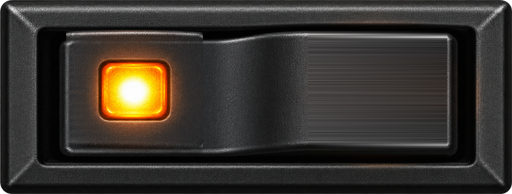
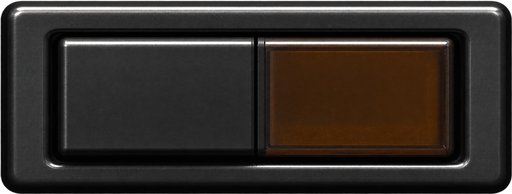
Skin packs: switches in two states and the wheels' colour; SIGNAL BASIN's switches (R-SKIN-PACKS)
A pack may give a rocker's picture on (rocker-blue-on, -orange-on, -ivory-on): the rocker then
shows its plain picture off and that one on, unmirrored, without the plug-in's paddle light, so a
switch can be a key with a lamp. [look.colours] wheel colours the PITCH and MOD wheels. SIGNAL
BASIN's switches are now the concept's illuminated switch (a plain half and an amber lens half,
dark off and lit on) throughout, and its wheels the concept's aged cream; passed by the
reviewing agent.

diff --git a/crates/ca72-panel/src/render.rs b/crates/ca72-panel/src/render.rs
@@ -602,6 +602,24 @@ impl Renderer {
                     _ => 0.0,
                 };
                 let mut layer = control(c, v, midi);
+                // A pack's rocker drawn in its two states: its picture on or off, neither
+                // mirrored, no paddle lit or shadowed by the plug-in.
+                if worn
+                    && let Some(sp) = layer.sprites.first_mut()
+                    && let Some(slot) = crate::skin::on_slot(sp.part)
+                    && self.look.pictures.contains_key(slot)
+                {
+                    if v >= 0.5 {
+                        sp.part = match sp.part {
+                            Part::RockerBlue => Part::RockerBlueOn,
+                            Part::RockerOrange => Part::RockerOrangeOn,
+                            _ => Part::RockerIvoryOn,
+                        };
+                    }
+                    sp.flip = (false, false);
+                    layer.paddle = None;
+                    layer.body = String::new();
+                }
                 // FEEDBACK while EXTERNAL INPUT is closed: dimmed as the parts with no
                 // parameter are, still operable; DETUNE in SCATTER and VOICES where it does
                 // nothing: dimmed so, and not operable (the editor's `operable`).
@@ -814,7 +832,13 @@ impl Renderer {
             d.draw(&mut pixmap, origin, s as f32);
         }
         if let Some(wheel) = layer.wheel {
-            draw_wheel(&mut pixmap, (ox * s - x0, oy * s - y0), s, wheel);
+            // (A look's colour as written, sRGB: the wheel is shaded in linear light.)
+            let albedo = self
+                .look
+                .colours
+                .wheel
+                .map(|(r, g, b)| [r, g, b].map(|v| (f64::from(v) / 255.0).powf(2.2)));
+            draw_wheel(&mut pixmap, (ox * s - x0, oy * s - y0), s, wheel, albedo);
         }
         if let Some(paddle) = layer.paddle {
             light_paddle(&mut pixmap, (ox * s - x0, oy * s - y0), s, paddle);
@@ -1200,7 +1224,13 @@ fn light_paddle(frame: &mut Pixmap, at: (f64, f64), s: f64, p: art::PaddleArt) {
 /// (above, and up and to the left of, the panel): its ridges every 8 degrees rolling with it,
 /// each lit on its flank towards the lamp; its rim rounded over at its sides; its ends going
 /// down into the slot's shade; PITCH's line or MOD.'s dot rolling with it.
-fn draw_wheel(frame: &mut Pixmap, at: (f64, f64), s: f64, wheel: art::WheelArt) {
+fn draw_wheel(
+    frame: &mut Pixmap,
+    at: (f64, f64),
+    s: f64,
+    wheel: art::WheelArt,
+    albedo: Option<[f64; 3]>,
+) {
     let k = art::WHEEL_SCALE;
     let (hw, hh, r, corner) = (24.0 * k, 67.0 * k, 84.0 * k, 10.0 * k);
     let unit = |(x, y, z): (f64, f64, f64)| {
@@ -1208,7 +1238,8 @@ fn draw_wheel(frame: &mut Pixmap, at: (f64, f64), s: f64, wheel: art::WheelArt) 
         (x / n, y / n, z / n)
     };
     let (light, half) = lamp_vectors();
-    let albedo = [0.80, 0.765, 0.67];
+    // Its colour: a look's, else the built-in cream.
+    let albedo = albedo.unwrap_or([0.80, 0.765, 0.67]);
     let (fw, fh) = (frame.width() as i32, frame.height() as i32);
     let x0 = ((at.0 - hw * s).floor() as i32).max(0);
     let x1 = ((at.0 + hw * s).ceil() as i32).min(fw);

diff --git a/crates/ca72-panel/tests/packs.rs b/crates/ca72-panel/tests/packs.rs
@@ -720,3 +720,64 @@ fn a_packs_strip_is_its_own() {
             .has("look.colour")
     );
 }
+
+/// A pack's rockers in two states: its picture on drawn when on and its plain one when off,
+/// neither mirrored and no paddle lit by the plug-in; without its picture on, mirrored as
+/// before. And a pack's wheel colour shades the PITCH and MOD wheels.
+#[test]
+fn a_packs_switches_show_their_state_and_its_wheels_their_colour() {
+    let with = |on: bool, wheel: bool| {
+        edited(move |d| {
+            let off = "<svg xmlns='http://www.w3.org/2000/svg' viewBox='0 0 20 8'><rect width='20' height='8' fill='#111'/><rect x='15' y='2' width='4' height='4' fill='#420'/></svg>";
+            let lit = "<svg xmlns='http://www.w3.org/2000/svg' viewBox='0 0 20 8'><rect width='20' height='8' fill='#111'/><rect x='15' y='2' width='4' height='4' fill='#fa4'/></svg>";
+            std::fs::write(d.join("art/off.svg"), off).expect("written");
+            std::fs::write(d.join("art/on.svg"), lit).expect("written");
+            replace(
+                &d.join("skin.toml"),
+                "base = \"classic\"",
+                "base = \"realistic\"",
+            );
+            let text = std::fs::read_to_string(d.join("skin.toml")).expect("read");
+            let assets = ["art/off.svg", "art/on.svg"]
+                .map(|p| format!("[[assets]]\npath = \"{p}\"\norigin = \"original\"\n\n"))
+                .concat();
+            let colours = if wheel {
+                "\n[look.colours]\nwheel = \"#806040\"\n"
+            } else {
+                ""
+            };
+            let pictures = if on {
+                "\n[look.pictures]\nrocker-blue = \"art/off.svg\"\nrocker-blue-on = \"art/on.svg\"\n"
+            } else {
+                "\n[look.pictures]\nrocker-blue = \"art/off.svg\"\n"
+            };
+            std::fs::write(
+                d.join("skin.toml"),
+                text.replace("[look]", &format!("{assets}[look]")) + colours + pictures,
+            )
+            .expect("written");
+        })
+    };
+    let s = 0.3;
+    let draw = |look: Look, value: f64| {
+        let mut r = Renderer::with_pack(look, Lettering::Standard, s, 1.0);
+        let mut scene = Scene::default();
+        let i = ca72_panel::controls::index("osc1_on").expect("OSC 1 ON");
+        scene.values[i] = value;
+        r.render(&scene);
+        r.frame().data().to_vec()
+    };
+    let open = |on, wheel| {
+        let dir = with(on, wheel);
+        Look::open(dir.path()).unwrap_or_else(|r| panic!("{r}"))
+    };
+    let (two, one) = (open(true, false), open(false, false));
+    // On, the two-state pack differs from the mirrored one; off, they are the same picture
+    // unmirrored against mirrored, so they differ too, but the two-state pack's off and on
+    // differ only by the lamp.
+    assert!(draw(two.clone(), 1.0) != draw(one.clone(), 1.0));
+    assert!(draw(two.clone(), 0.0) != draw(two.clone(), 1.0));
+    let wheel = open(false, true);
+    assert_eq!(wheel.colours.wheel, Some((0x80, 0x60, 0x40)));
+    assert!(draw(wheel, 0.0) != draw(one, 0.0));
+}

diff --git a/crates/ca72-panel/src/skin.rs b/crates/ca72-panel/src/skin.rs
@@ -88,14 +88,28 @@ pub const SLOTS: [(&str, &[u8]); 27] = [
 /// strip's renderer: a tab's cap (the built-in one is made translucent amber and lit from it)
 /// and, if the pack gives one, the tab lit (otherwise lit from the cap as the built-in one is);
 /// the rail's keys' cap; the readouts' and displays' glass; and the ivory rocker (the left
-/// hand's switches, the layout's ivory ones), else made from the blue.
-pub const STRIP_SLOTS: [(&str, &[u8]); 5] = [
+/// hand's switches, the layout's ivory ones), else made from the blue; and each rocker on, if a
+/// pack draws its rockers' two states (a lamp lit) rather than one picture mirrored.
+pub const STRIP_SLOTS: [(&str, &[u8]); 8] = [
     ("tab", BUTTON),
     ("tab-lit", BUTTON),
     ("key", BUTTON),
     ("glass", GLASS),
     ("rocker-ivory", ROCKER_BLUE),
+    ("rocker-blue-on", ROCKER_BLUE),
+    ("rocker-orange-on", ROCKER_ORANGE),
+    ("rocker-ivory-on", ROCKER_BLUE),
 ];
+
+/// The slot of a rocker's picture on, by the part of its picture off.
+pub fn on_slot(part: Part) -> Option<&'static str> {
+    match part {
+        Part::RockerBlue => Some("rocker-blue-on"),
+        Part::RockerOrange => Some("rocker-orange-on"),
+        Part::RockerIvory => Some("rocker-ivory-on"),
+        _ => None,
+    }
+}
 
 /// Every picture built into the plug-in, by name: the worn skin's, the strip's and the
 /// keyboard's. A pack under another licence holding a copy of one is put to review
@@ -178,6 +192,11 @@ pub enum Part {
     RockerBlue,
     RockerOrange,
     RockerIvory,
+    /// A rocker on, as a skin pack draws it (its plain picture then shown off, neither
+    /// mirrored): a switch with a lamp lit, say.
+    RockerBlueOn,
+    RockerOrangeOn,
+    RockerIvoryOn,
     /// The POWER rocker, its upper half raised.
     Power,
     /// The POWER lamp's red jewel in its chrome bezel, and OVERLOAD's darker one.
@@ -242,6 +261,8 @@ pub struct Pictures {
     rocker_blue: Pixmap,
     rocker_orange: Pixmap,
     rocker_ivory: Pixmap,
+    /// A pack's rockers on (blue, orange, ivory), if it draws them.
+    rockers_on: [Option<Pixmap>; 3],
     power: Pixmap,
     jewel: Pixmap,
     jewel_dark: Pixmap,
@@ -365,6 +386,7 @@ impl Pictures {
             rocker_blue,
             rocker_orange: png("rocker-orange"),
             rocker_ivory,
+            rockers_on: ["rocker-blue-on", "rocker-orange-on", "rocker-ivory-on"].map(pack),
             power: png("power"),
             jewel,
             jewel_dark,
@@ -401,6 +423,9 @@ impl Pictures {
             Part::RockerBlue => &self.rocker_blue,
             Part::RockerOrange => &self.rocker_orange,
             Part::RockerIvory => &self.rocker_ivory,
+            Part::RockerBlueOn => self.rockers_on[0].as_ref().unwrap_or(&self.rocker_blue),
+            Part::RockerOrangeOn => self.rockers_on[1].as_ref().unwrap_or(&self.rocker_orange),
+            Part::RockerIvoryOn => self.rockers_on[2].as_ref().unwrap_or(&self.rocker_ivory),
             Part::Power => &self.power,
             Part::Jewel => &self.jewel,
             Part::JewelDark => &self.jewel_dark,

diff --git a/docs/skin-packs/tools/signal-basin/switches.py b/docs/skin-packs/tools/signal-basin/switches.py
@@ -1,0 +1,19 @@
+#!/usr/bin/env python3
+"""Signal Basin: the switch's two pictures (off, its lamp dark; on, lit) cut out by their own
+transparency, cropped on one frame (the union of their outlines, so the two line up) and sized
+for the rocker slots. python3 switches.py <generated folder> <pictures folder>"""
+import sys
+import numpy as np
+from PIL import Image, ImageFilter
+
+src, out = sys.argv[1].rstrip("/") + "/", sys.argv[2].rstrip("/") + "/"
+ims = [Image.open(src + n + ".png").convert("RGBA") for n in ("switch", "switch-on")]
+boxes = [Image.fromarray((np.array(i)[..., 3] > 128).astype(np.uint8) * 255).getbbox() for i in ims]
+box = (min(b[0] for b in boxes), min(b[1] for b in boxes), max(b[2] for b in boxes), max(b[3] for b in boxes))
+for im, names in zip(ims, (("rocker-blue", "rocker-ivory"), ("rocker-blue-on", "rocker-ivory-on"))):
+    a = Image.fromarray(np.array(im)[..., 3]).filter(ImageFilter.MinFilter(3)).filter(ImageFilter.GaussianBlur(0.6))
+    im.putalpha(a)
+    pic = im.crop(box).resize((512, 194), Image.LANCZOS)
+    for n in names:
+        pic.save(out + n + ".png", optimize=True)
+print("cut on", box)

diff --git a/crates/ca72-panel/src/look.rs b/crates/ca72-panel/src/look.rs
@@ -373,6 +373,7 @@ impl Look {
                 ("drops", &c.drops, &mut colours.drops),
                 ("tab_print", &c.tab_print, &mut colours.tab_print),
                 ("key_print", &c.key_print, &mut colours.key_print),
+                ("wheel", &c.wheel, &mut colours.wheel),
             ] {
                 if let Some(v) = value {
                     match hex(v) {
@@ -537,6 +538,8 @@ struct ColoursTable {
     tab_print: Option<String>,
     #[serde(default)]
     key_print: Option<String>,
+    #[serde(default)]
+    wheel: Option<String>,
     #[serde(flatten)]
     rest: Rest,
 }
@@ -550,6 +553,8 @@ pub struct Colours {
     pub drops: Option<(u8, u8, u8)>,
     pub tab_print: Option<(u8, u8, u8)>,
     pub key_print: Option<(u8, u8, u8)>,
+    /// The PITCH and MOD wheels' (else the built-in cream).
+    pub wheel: Option<(u8, u8, u8)>,
 }
 
 /// A colour written `#rrggbb`.

diff --git a/docs/skin-packs/signal-basin/README.md b/docs/skin-packs/signal-basin/README.md
@@ -68,6 +68,13 @@ face (`spill.py`). `rocker-ivory.png` is the black rocker again, so that the lef
 switches match the panel's; the screw picture (the left hand's mountings) darkened to the
 drawn screws' bronze. The lamps' colours are the manifest's (`[look.colours]`).
 
+**The switches.** Every on/off switch (the oscillators' ON, the left hand's, the filter's) is
+the concept's illuminated switch: a bezel round a plain Bakelite half and a translucent amber
+lens, generated off from a crop of the concept and on as an edit of it, cropped on one frame
+(`switches.py`), and given as `rocker-blue` and `rocker-blue-on` (and the ivory again), so the
+plug-in shows each state's picture rather than mirroring one. The PITCH and MOD wheels are
+shaded by the plug-in in the manifest's `wheel` colour.
+
 ## The prompts
 
 ### `knob` (with a crop of the concept picture)
@@ -240,3 +247,23 @@ drawn screws' bronze. The lamps' colours are the manifest's (`[look.colours]`).
 > The attached picture is cropped from a concept picture of a synthesizer's lower panel: a numeric readout's window of near-black quiet glass (its amber digit is drawn by the plug-in, so leave it out). Make a straight-on, evenly lit close photograph of exactly that glass, empty: near-black smoked glass with a very faint cool tint, the faintest fine mesh just visible behind it, a soft even sheen, filling a landscape frame (about 16 by 9) edge to edge, as large as you can make it.
 > - Completely empty: no digits, segments, letters, dots, frame, bezel or marks.
 > - Even across the frame: no vignetting, no gradient, no reflections of objects; sharp focus.
+
+### `switch` (with a crop of the strip's concept's switch)
+
+> Use your image generation tool to make one image, then save it in the current directory as switch.png (copy the generated file there). Do nothing else.
+>
+> The attached picture is cropped from a concept picture of a synthesizer panel: an illuminated on/off rocker switch, shown ON. Make exactly that switch as a standalone product picture, but OFF:
+> - A landscape switch about 2.2 times as wide as it is tall, seen from straight in front, exactly as the attached one: a dark charcoal rectangular bezel with softly rounded corners and a thin light edge along its top, and inside it a key made of TWO halves side by side, divided by a thin dark line down the middle.
+> - The LEFT half: plain dark Bakelite, satin, with a thin light edge along its top.
+> - The RIGHT half: a translucent amber lens, almost filling that half (a small margin round it), UNLIT: a deep smoky brown-amber glass, dark but clearly a window, with a faint reflection along its top.
+> - Flat and even, no lettering, no symbols.
+> - Straight-on orthographic, the switch filling about 90 percent of the frame's width, a landscape frame, sharp focus.
+> - Lighting: soft, from up and to the left, no cast shadow.
+> - Background: fully transparent (a PNG with an alpha channel). If that is not possible, a perfectly flat plain mid-grey (#808080).
+> - No text, symbols, logos or numbers anywhere.
+
+### `switch-on` (with a crop of the strip's concept's switch)
+
+> Use your image generation tool to edit the first attached picture (switch.png: an illuminated rocker switch, OFF, its right half an unlit amber lens), then save the result in the current directory as switch-on.png (copy the generated file there). Do nothing else.
+>
+> Keep everything exactly the same (the bezel, the two halves, their size and place in the frame, the transparent background) except the right half's amber lens: now LIT from behind, as in the second attached picture: a warm glowing amber (#ffa040) brightest in its middle (a soft hot core, #ffd080), its edges a deeper orange, a little glow spilling onto the bezel round it. The left half unchanged. No text, symbols, logos or numbers anywhere.

diff --git a/docs/skin-packs.md b/docs/skin-packs.md
@@ -260,6 +260,7 @@ lamp = "#ffa040"             # its readouts' lit segments, its displays' dots, t
 drops = "#ffa62a"            # optional: the voices' drops' light (else made from lamp)
 tab_print = "#e6dcc4"        # the tabs' lettering
 key_print = "#e6dcc4"        # the rail's keys' marks and lettering
+wheel = "#c4b08e"            # the PITCH and MOD wheels' colour (they are shaded by the plug-in)
 
 [look.pictures]              # optional: realistic only; pictures replacing the built-in ones
 knob = "pictures/knob.png"
@@ -335,6 +336,7 @@ keeps its controls where they are, but a pack may dress it: its wood and face ar
 | `key` | The rail's keys' cap, square, widened as a tab's | 256 × 255 |
 | `glass` | The readouts' and the displays' glass, empty | 900 × 507 |
 | `rocker-ivory` | The ivory rocker (the left hand's switches, and a layout's ivory ones), as `rocker-blue`; otherwise made from `rocker-blue` | 512 × 194 |
+| `rocker-blue-on`, `rocker-orange-on`, `rocker-ivory-on` | A rocker ON, as the pack draws it (a lamp lit, say), framed exactly as the rocker's own picture. Given, that rocker shows its plain picture when off and this one when on, neither mirrored, and the plug-in neither lights nor shadows a rocking paddle on it: for switches that are flat keys with a lamp rather than paddles. Without it, the one picture is mirrored, as before | 512 × 194, 512 × 181 |
 
 - **Colours** in `[look.colours]`: the lamps' (`lamp`), from which the plug-in makes their glow
   and the drops' light as it does its own orange's, and the tabs' and keys' print.

diff --git a/docs/decisions.md b/docs/decisions.md
@@ -6294,3 +6294,19 @@ one, in both skins; a pack's tabs, keys, lamp and print colours and its drawing 
 colour not `#rrggbb` refused); every panel, pack and plug-in test, clippy, fmt. SIGNAL BASIN's
 strip passed by the reviewing agent (round 2, its last notes taken). Not yet: the keyboard and
 the drawer, hosts.
+
+**Switches and wheels, 2026-10-17.** The owner: the pitch and mod wheels unlike the concept's,
+and its on/off switches "look much better. Ours have a weird curve in the middle" (the rocker
+picture's hump with the plug-in's paddle light over it).
+
+**Agent decisions** (not separately approved):
+- `rocker-blue-on`, `rocker-orange-on`, `rocker-ivory-on`: a rocker's picture ON. Given, the
+  rocker shows its plain picture off and this one on, neither mirrored, and the plug-in neither
+  lights nor shadows a paddle over it (`render.rs`, the layer rewritten when the look has it).
+- `[look.colours] wheel`: the PITCH and MOD wheels' colour, as sRGB (made linear for their
+  shading). Their shape and shading stay the plug-in's.
+
+**Evidence (the Mac, 2026-10-17):** `a_packs_switches_show_their_state_and_its_wheels_their_colour`;
+the official looks untouched (their rockers have no picture on); every test, clippy, fmt.
+SIGNAL BASIN's switches, remade from a crop of the concept's, and wheels passed by the reviewing
+agent (rounds 3 and 4).
